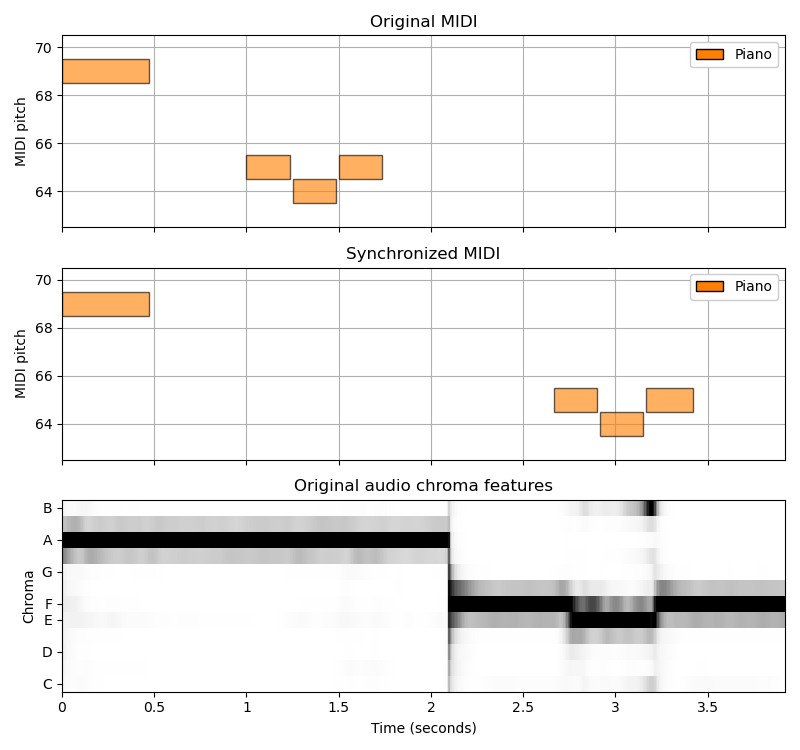
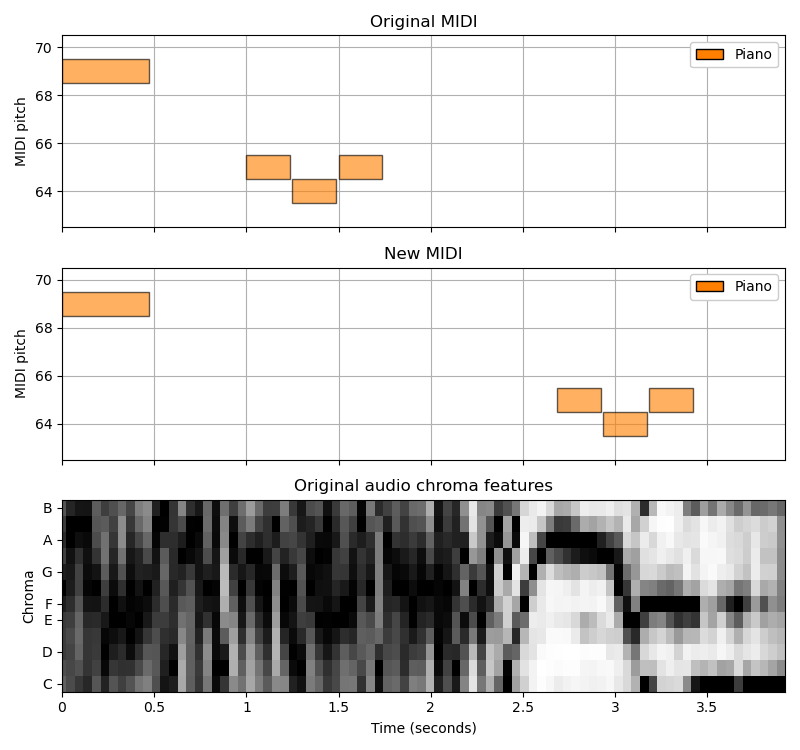
semestral thesis presentation

diff --git a/scripts/DP/SYNC/DTW.py b/scripts/DP/SYNC/DTW.py
@@ -10,6 +10,8 @@ Aim of this script is basic implementation of score-to-audio synchronization
 
 """
 import os
+from pathlib import Path
+import string
 import Handler as handle
 import librosa
 from matplotlib import pyplot as plt
@@ -20,6 +22,62 @@ from synctoolbox.dtw.mrmsdtw import sync_via_mrmsdtw
 from synctoolbox.feature.csv_tools import df_to_pitch_features
 from synctoolbox.feature.chroma import pitch_to_chroma
 
+
+def fullPipeline(path_MIDI_data : string or Path, 
+                 path_audio : string or Path,
+                 path_output : string or Path, 
+                 path_CSV : string or Path,
+                 verbose : bool = False):
+    """ Full synchronization pipeline as constructed in the master thesis.
+    Args:
+        path_MIDI_data (string or Path) : path to the tempo stable MIDI file
+        path_audio (string or Path) : path to the audio file with the interpretation according to which the MIDI file should be aligned
+        path_output (string or Path) : path to the output file where the synced MIDI will be saved
+        path_CSV (string or Path) : path to the csv file # TODO delete and instead  of path make the function to handle only filenames
+        
+        TODO: make a better path handling instead of having whole path as the input change it only to the filename
+    """
+   
+        # This settings showed to be crucial!!
+    Fs = 48000
+    N = 2048
+    H = N//2
+    fn_wav_x = path_audio
+    # TODO: is this correct?
+    feature_rate = Fs/H
+
+    # Load audio
+    x_wav, Fs = librosa.load(fn_wav_x, sr=Fs)
+    # export it to chroma representation
+    chroma_audio = librosa.feature.chroma_stft(y=x_wav, sr=Fs, hop_length=H, n_fft=N)
+
+    # Load midi and export it to chroma representation
+    path_midi = path_MIDI_data
+    path_csv = path_CSV
+    df_midi = handle.midi_to_csv(midi=path_midi, csv_path=path_csv)
+    f_pitch = df_to_pitch_features(df_midi, feature_rate=feature_rate)
+    f_chroma = pitch_to_chroma(f_pitch=f_pitch)
+    #f_chroma_quantized = quantize_chroma(f_chroma=f_chroma)
+    chroma_midi = f_chroma
+
+    # show the audio and midi chroma representations
+    if verbose:
+        fig, ax = plt.subplots(nrows=2, ncols=1, figsize=(10, 6), sharex=False)
+        img = librosa.display.specshow(chroma_audio, x_axis='frames', y_axis='chroma', cmap='gray_r', hop_length=H, ax=ax[0])
+        ax[0].set(title='Audio chroma representation')    
+        ax[0].set_xlabel('Time (frames)')
+        ax[0].set_ylabel('Chroma')  
+        ax[0].label_outer()
+
+        librosa.display.specshow(chroma_midi, x_axis='frames', y_axis='chroma', cmap='gray_r', ax=ax[1])
+        ax[1].set(title='MIDI chroma representation')
+        ax[1].set_xlabel('Time (frames)')
+        ax[1].set_ylabel('Chroma')
+        ax[0].label_outer()
+    
+        fig.colorbar(img, ax=ax)
+        plt.show()
+    
 
 def warping_path(X, Y, feature_rate=50, show=False):
     """ Computes warping path between two chromavectors
@@ -90,7 +148,7 @@ def dtw_test(show=False):
     # This settings showed to be crucial!!
     Fs = 48000
     N = 2048
-    H = N//16
+    H = N//2
     fn_wav_x = os.path.join('..', '..', 'data', 'audio', 'dtw_test.wav')
     # TODO: is this correct?
     feature_rate = Fs/H
@@ -101,7 +159,7 @@ def dtw_test(show=False):
     chroma_audio = librosa.feature.chroma_stft(y=x_wav, sr=Fs, hop_length=H, n_fft=N)
 
     # Load midi and export it to chroma representation
-    path_midi =os.path.join('..', '..', 'data', 'MIDI', 'dtw_test.mid')
+    path_midi =os.path.join('..', '..', 'data', 'MIDI', 'tests', 'dtw_test.mid')
     path_csv = os.path.join('..', '..', 'data', 'CSV', 'dtw_test.csv')
     df_midi = handle.midi_to_csv(midi=path_midi, csv_path=path_csv)
     f_pitch = df_to_pitch_features(df_midi, feature_rate=feature_rate)
@@ -143,43 +201,15 @@ def dtw_test(show=False):
         fn_wav_x = os.path.join('..', '..', 'data', 'audio', 'dtw_test_whistle.wav')
         x_wav, Fs = librosa.load(fn_wav_x, sr=Fs)
         # export it to chroma
-        X_whistle = librosa.feature.chroma_stft(y=x_wav, sr=Fs, hop_length=H, n_fft=N)
+        X_audio = librosa.feature.chroma_stft(y=x_wav, sr=Fs, hop_length=H, n_fft=N)
         # compute optimal wp
-        wp_piano = warping_path(X_whistle, chroma_midi, feature_rate=feature_rate, show=show)
+        wp_piano = warping_path(X_audio, chroma_midi, feature_rate=feature_rate, show=show)
         # create synced object
         midi_path = os.path.join('..', '..', 'data', 'MIDI', 'from_csv', 'dtw_test_synced_with_whistle.mid')    
         csv_path = os.path.join('..', '..', 'data', 'CSV', 'dtw_test_synced_with_whistle.csv')    
         synced_midi=create_synced_object(df_midi, wp_piano, feature_rate=feature_rate, path_midi=midi_path, path_csv = csv_path )
         # compare 
-        handle.compare_midi(df_midi, synced_midi, audio_chroma=chroma_audio, audio_hop=H)    
-
-        # Load different audio 
-        fn_wav_x = os.path.join('..', '..', 'data', 'audio', 'dtw_test_voice_eq.wav')
-        x_wav, Fs = librosa.load(fn_wav_x, sr=Fs)
-        # export it to chroma
-        X_whistle = librosa.feature.chroma_stft(y=x_wav, sr=Fs, hop_length=H, n_fft=N)
-        # compute optimal wp
-        wp_voice = warping_path(X_whistle, chroma_midi,feature_rate=feature_rate, show=show)
-        midi_path = os.path.join('..', '..', 'data', 'MIDI', 'from_csv', 'dtw_test_synced_with_voice_eq.mid')    
-        csv_path = os.path.join('..', '..', 'data', 'CSV', 'dtw_test_synced_with_voice_eq.csv')    
-        # create synced object
-        synced_midi=create_synced_object(df_midi, wp_voice, feature_rate=feature_rate, path_midi=midi_path, path_csv = csv_path )
-        # compare 
-        handle.compare_midi(df_midi, synced_midi, audio_chroma=chroma_audio, audio_hop=H)
-        
-        # Load different audio 
-        fn_wav_x = os.path.join('..', '..', 'data', 'audio', 'dtw_test_voice_slow.wav')
-        x_wav, Fs = librosa.load(fn_wav_x, sr=Fs)
-        # export it to chroma
-        X_whistle = librosa.feature.chroma_stft(y=x_wav, sr=Fs, hop_length=H, n_fft=N)
-        # compute optimal wp
-        wp_voice = warping_path(X_whistle, chroma_midi,feature_rate=feature_rate, show=show)
-        midi_path = os.path.join('..', '..', 'data', 'MIDI', 'from_csv', 'test_synced_with_slow_voice.mid')    
-        csv_path = os.path.join('..', '..', 'data', 'CSV', 'test_synced_with_slow_voice.csv')    
-        # create synced object
-        synced_midi=create_synced_object(df_midi, wp_voice, feature_rate=feature_rate, path_midi=midi_path, path_csv = csv_path )
-        # compare 
-        handle.compare_midi(df_midi, synced_midi, audio_chroma=chroma_audio, audio_hop=H)
+        handle.compare_midi(df_midi, synced_midi, audio_chroma=X_audio, audio_hop=H)    
     
     
 
@@ -192,3 +222,36 @@ def dtw_test(show=False):
 #handle.MIDI_handler.test()
 # Note: it doesn't for the program but when you actually listen to the midi file it sounds different so that sucks
 
+
+# Fs = 48000
+# N = 2048
+# H = N//2
+# feature_rate = Fs/H
+# # Load midi and export it to chroma representation
+# path_midi =os.path.join('..', '..', 'data', 'MIDI', 'tests', 'dtw_test.mid')
+# path_csv = os.path.join('..', '..', 'data', 'CSV', 'dtw_test.csv')
+# df_midi = handle.midi_to_csv(midi=path_midi, csv_path=path_csv)
+# f_pitch = df_to_pitch_features(df_midi, feature_rate=feature_rate)
+# f_chroma = pitch_to_chroma(f_pitch=f_pitch)
+# #f_chroma_quantized = quantize_chroma(f_chroma=f_chroma)
+# chroma_midi = f_chroma
+# fn_wav_x = os.path.join('..', '..', 'data', 'audio', 'dtw_test_voice_eq.wav')
+# x_wav, Fs = librosa.load(fn_wav_x, sr=Fs)
+# # export it to chroma
+# chroma_audio = librosa.feature.chroma_stft(y=x_wav, sr=Fs, hop_length=H, n_fft=N)
+
+# fig, ax = plt.subplots(nrows=2, ncols=1, figsize=(10, 6), sharex=False)
+# img = librosa.display.specshow(chroma_audio, x_axis='frames', y_axis='chroma', cmap='gray_r', hop_length=H, ax=ax[0])
+# ax[0].set(title='Audio chroma representation')    
+# ax[0].set_xlabel('Time (frames)')
+# ax[0].set_ylabel('Chroma')  
+# ax[0].label_outer()
+
+# librosa.display.specshow(chroma_midi, x_axis='frames', y_axis='chroma', cmap='gray_r', ax=ax[1])
+# ax[1].set(title='MIDI chroma representation')
+# ax[1].set_xlabel('Time (frames)')
+# ax[1].set_ylabel('Chroma')
+# ax[0].label_outer()
+
+# fig.colorbar(img, ax=ax)
+# plt.show()

diff --git a/scripts/DP/DP.py b/scripts/DP/DP.py
@@ -33,13 +33,13 @@ import os
 
 #handle.MIDI_handler.test()
 
-#dtw_test(show=False)
+dtw_test(show=True)
 
 
-path_csv_100 = os.path.join('..', '..', 'data','CSV', 'test_100bpm.csv')
-path_csv_80 = os.path.join('..', '..', 'data','CSV', 'test_80bpm.csv')
+# path_csv_100 = os.path.join('..', '..', 'data','CSV', 'test_100bpm.csv')
+# path_csv_80 = os.path.join('..', '..', 'data','CSV', 'test_80bpm.csv')
 
-df_80bpm = handle.MIDI_handler.read_csv(path_csv_80, separator=',')
-df_100bpm = handle.MIDI_handler.read_csv(path_csv_100, separator=',')
+# df_80bpm = handle.MIDI_handler.read_csv(path_csv_80, separator=',')
+# df_100bpm = handle.MIDI_handler.read_csv(path_csv_100, separator=',')
 
-handle.visualizer.compare_midi(df_80bpm, df_100bpm, title_original_midi='MIDI 80 BPM', title_new_midi='MIDI 100 BPM')
+# handle.visualizer.compare_midi(df_80bpm, df_100bpm, title_original_midi='MIDI 80 BPM', title_new_midi='MIDI 100 BPM')
